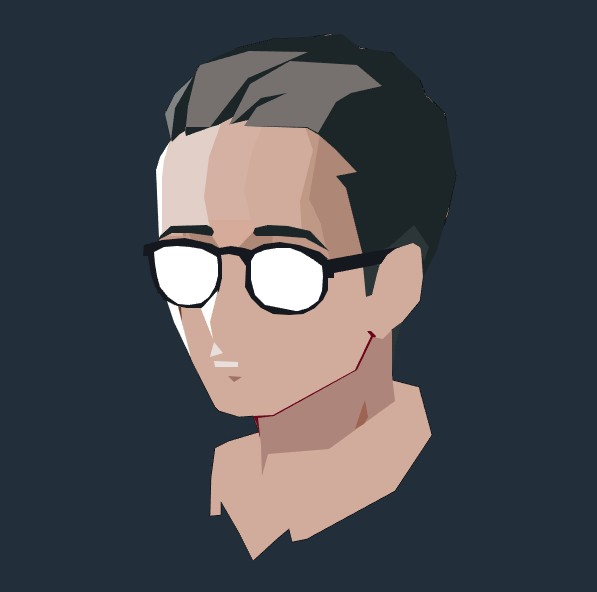
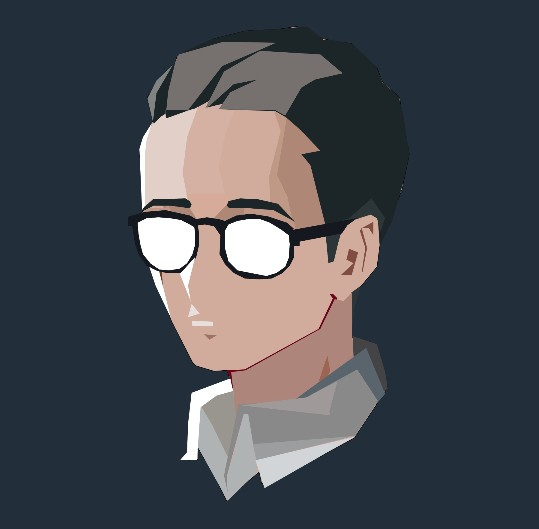
Finished Selfie Update
Updated and added all relevant details to showcase completed selfie

diff --git a/p5js/index.html b/p5js/index.html
@@ -810,6 +810,168 @@
 		  vertex(355, 430);
 		  endShape(CLOSE);
 
+		 //ear
+		  noStroke();
+		  fill(129, 77, 64);
+		  beginShape();
+		  vertex(403, 259);
+		  vertex(416, 252);
+		  vertex(416, 267);
+		  vertex(411, 259);
+		  vertex(403, 259);
+		  endShape(CLOSE);
+		  
+		  //e1
+		  noStroke();
+		  fill(129, 77, 64);
+		  beginShape();
+		  vertex(403, 308);
+		  vertex(407, 281);
+		  vertex(401, 262);
+		  vertex(403, 259);
+		  vertex(409, 281);
+		  vertex(404, 308);
+		  vertex(403, 308);
+		  endShape(CLOSE);
+		  
+		  //e2
+		  noStroke();
+		  fill(129, 77, 64);
+		  beginShape();
+		  vertex(380, 311);
+		  vertex(394, 298);
+		  vertex(386, 294);
+		  vertex(389, 282);
+		  vertex(399, 286);
+		  vertex(392, 311);
+		  vertex(380, 311);
+		  endShape(CLOSE);
+
+		  
+		  //collar
+		  noStroke();
+		  fill(176, 179, 179);
+		  beginShape();
+		  vertex(224, 456);
+		  vertex(236, 471);
+		  vertex(258, 521);
+		  vertex(272, 464);
+		  vertex(279, 467);
+		  vertex(287, 530);
+		  vertex(254, 562);
+		  vertex(238, 533);
+		  vertex(219, 499);
+		  vertex(224, 456);
+		  endShape(CLOSE);
+		  
+		  //c1
+		  noStroke();
+		  fill(153, 150, 143);
+		  beginShape();
+		  vertex(224, 456);
+		  vertex(242, 444);
+		  vertex(260, 438);
+		  vertex(264, 476);
+		  vertex(255, 515);
+		  vertex(237, 478);
+		  vertex(224, 456);
+		  endShape(CLOSE);
+		  
+		  //c2
+		  noStroke();
+		  fill(255);
+		  beginShape();
+		  vertex(257, 426);
+		  vertex(260, 440);
+		  vertex(242, 445);
+		  vertex(224, 458);
+		  vertex(220, 517);
+		  vertex(201, 517);
+		  vertex(209, 508);
+		  vertex(210, 477);
+		  vertex(214, 442);
+		  vertex(257, 426);
+		  endShape(CLOSE);
+
+
+		  //c3
+		  noStroke();
+		  fill(68, 68, 70);
+		  beginShape();
+		  vertex(393, 379);
+		  vertex(420, 388);
+		  vertex(429, 419);
+		  vertex(432, 437);
+		  vertex(428, 441);
+		  vertex(406, 394);
+		  vertex(394, 403);
+		  vertex(393, 379);
+		  endShape(CLOSE);
+
+		  //c4 
+		  noStroke();
+		  fill(89, 100, 108);
+		  beginShape();
+		  vertex(408, 392);
+		  vertex(429, 443);
+		  vertex(419, 455);
+		  vertex(395, 418);
+		  vertex(339, 450);
+		  vertex(328, 450);
+		  vertex(408, 392);
+		  endShape(CLOSE);
+
+		  //c5
+		  noStroke();
+		  fill(137, 137, 137);
+		  beginShape();
+		  vertex(398, 416);
+		  vertex(421, 451);
+		  vertex(396, 490);
+		  vertex(283, 503);
+		  vertex(277, 466);
+		  vertex(272, 465);
+		  vertex(253, 535);
+		  vertex(254, 552);
+		  vertex(250, 534);
+		  vertex(266, 455);
+		  vertex(336, 450);
+		  vertex(398, 416);
+		  endShape(CLOSE);
+
+		  //c6
+		  noStroke();
+		  fill(159, 153, 153);
+		  beginShape();
+		  vertex(376, 429);
+		  vertex(367, 463);
+		  vertex(368, 467);
+		  vertex(269, 456);
+		  vertex(342, 447);
+		  vertex(376, 429);
+		  endShape(CLOSE);
+
+		  //c7
+		  noStroke();
+		  fill(155, 157, 158);
+		  beginShape();
+		  vertex(395, 490);
+		  vertex(286, 517);
+		  vertex(282, 499);
+		  vertex(395, 490);
+		  endShape(CLOSE);
+
+		  //c8
+		  noStroke();
+		  fill(209, 213, 216);
+		  beginShape();
+		  vertex(395, 491);
+		  vertex(295, 548);
+		  vertex(285, 517);
+		  vertex(395, 491);
+		  endShape(CLOSE);
+
+
 		}
 	  </code></pre>
 	</details>

diff --git a/p5js/Selfie/selfie.js b/p5js/Selfie/selfie.js
@@ -671,17 +671,95 @@ function draw() {
   noStroke();
   fill(255);
   beginShape();
-  vertex(224, 456);
-  vertex(221, 516);
-  vertex(204, 517);
-  vertex(211, 506);
-  vertex(210, 475);
-  vertex(216, 448);
-  vertex(239, 438);
-  vertex(258, 434);
-  vertex(260, 439);
-  vertex(240, 446);
-  vertex(224, 456);
+  vertex(257, 426);
+  vertex(260, 440);
+  vertex(242, 445);
+  vertex(224, 458);
+  vertex(220, 517);
+  vertex(201, 517);
+  vertex(209, 508);
+  vertex(210, 477);
+  vertex(214, 442);
+  vertex(257, 426);
   endShape(CLOSE);
+
+
+  //c3
+  noStroke();
+  fill(68, 68, 70);
+  beginShape();
+  vertex(393, 379);
+  vertex(420, 388);
+  vertex(429, 419);
+  vertex(432, 437);
+  vertex(428, 441);
+  vertex(406, 394);
+  vertex(394, 403);
+  vertex(393, 379);
+  endShape(CLOSE);
+
+  //c4 
+  noStroke();
+  fill(89, 100, 108);
+  beginShape();
+  vertex(408, 392);
+  vertex(429, 443);
+  vertex(419, 455);
+  vertex(395, 418);
+  vertex(339, 450);
+  vertex(328, 450);
+  vertex(408, 392);
+  endShape(CLOSE);
+
+  //c5
+  noStroke();
+  fill(137, 137, 137);
+  beginShape();
+  vertex(398, 416);
+  vertex(421, 451);
+  vertex(396, 490);
+  vertex(283, 503);
+  vertex(277, 466);
+  vertex(272, 465);
+  vertex(253, 535);
+  vertex(254, 552);
+  vertex(250, 534);
+  vertex(266, 455);
+  vertex(336, 450);
+  vertex(398, 416);
+  endShape(CLOSE);
+
+  //c6
+  noStroke();
+  fill(159, 153, 153);
+  beginShape();
+  vertex(376, 429);
+  vertex(367, 463);
+  vertex(368, 467);
+  vertex(269, 456);
+  vertex(342, 447);
+  vertex(376, 429);
+  endShape(CLOSE);
+
+  //c7
+  noStroke();
+  fill(155, 157, 158);
+  beginShape();
+  vertex(395, 490);
+  vertex(286, 517);
+  vertex(282, 499);
+  vertex(395, 490);
+  endShape(CLOSE);
+
+  //c8
+  noStroke();
+  fill(209, 213, 216);
+  beginShape();
+  vertex(395, 491);
+  vertex(295, 548);
+  vertex(285, 517);
+  vertex(395, 491);
+  endShape(CLOSE);
+
 
 }
